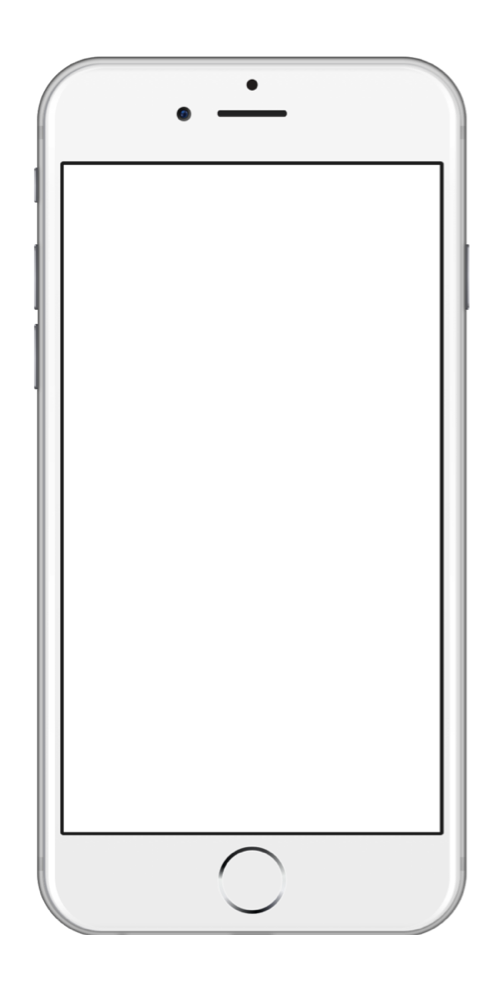
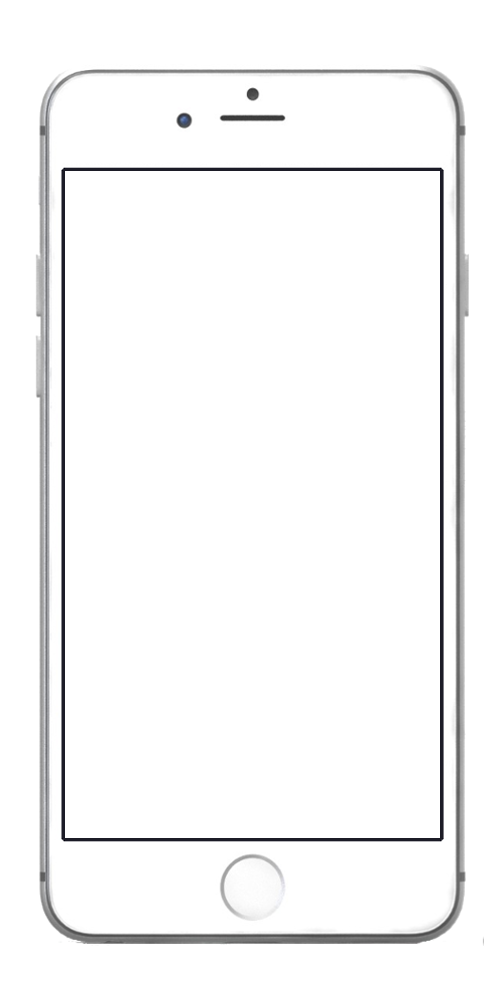
cambiata immagine iphone6

Changed region(s): [[0.06, 0.031, 0.96, 0.961]]

diff --git a/app/styles/style.scss b/app/styles/style.scss
@@ -78,7 +78,7 @@ html, body {
   height: 1000px;
   //Padding per centrare lo schermo
   //dimensione schermo in pixel = dimensione in dp 375x667
-  padding: 165px 61px 168px 64px;
+  padding: 171px 60px 162px 65px;
 }
 
 .device-view.ios.iPhone6Plus {
